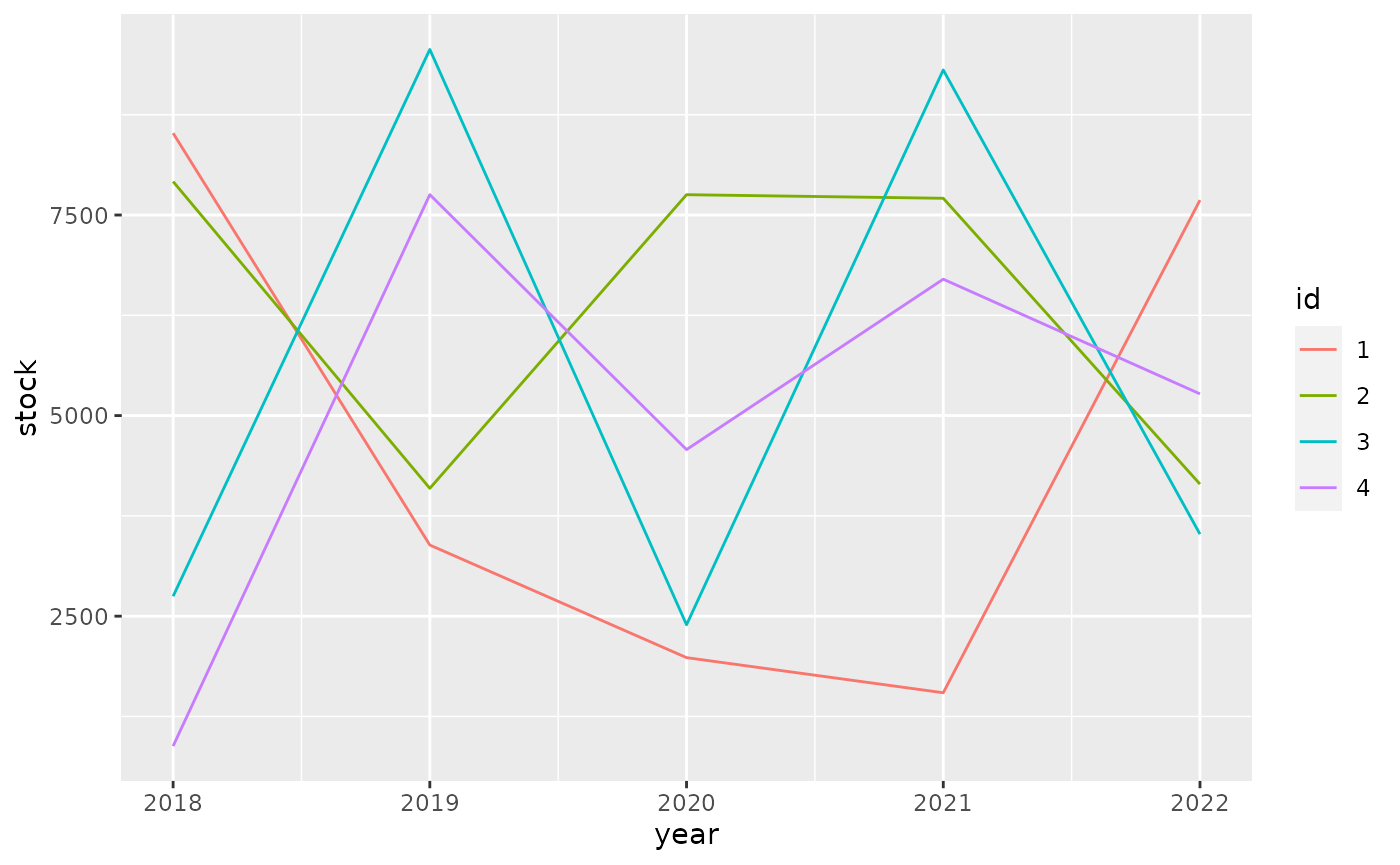
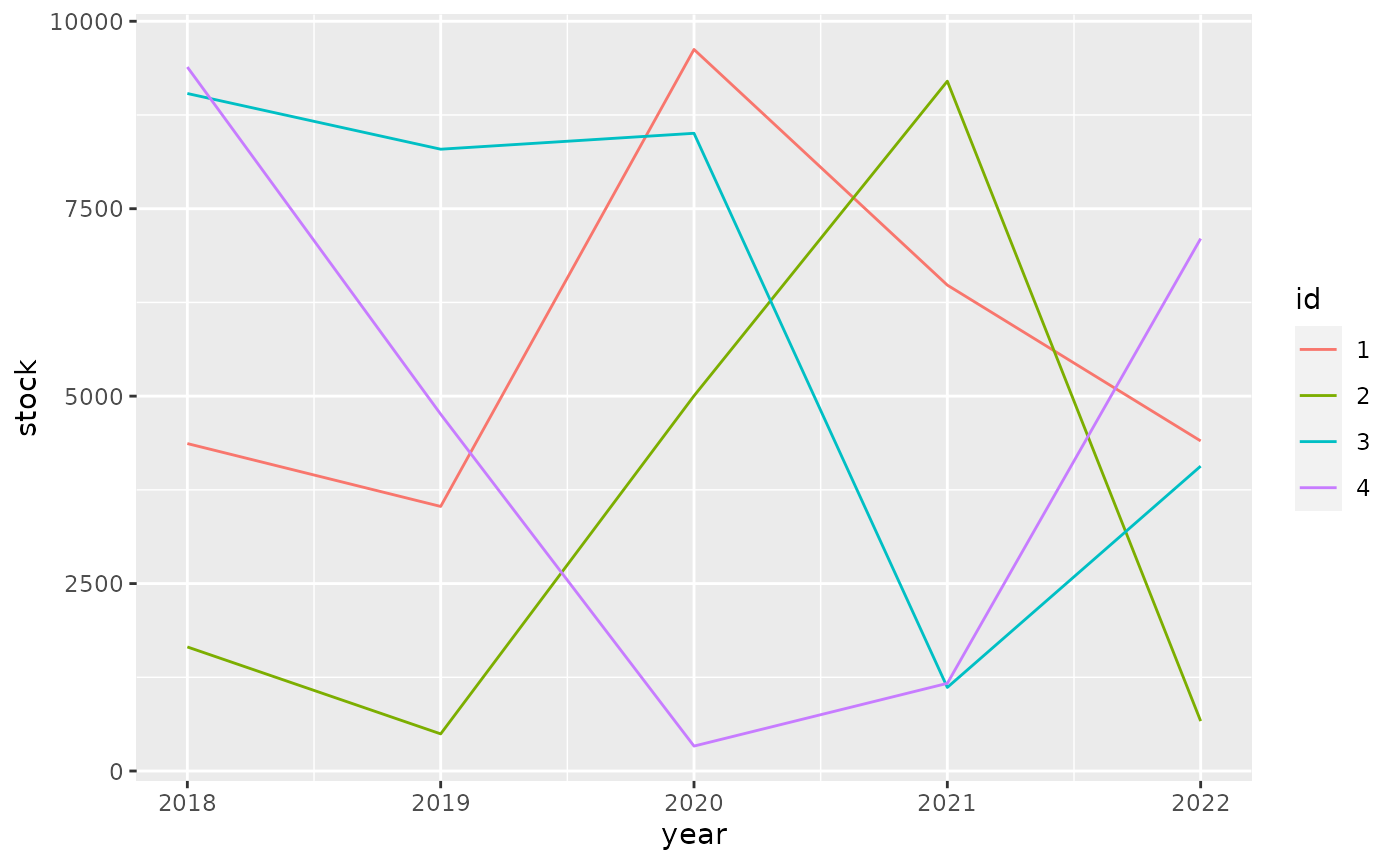
Built site for tibble: 3.1.5.9001@e8896d5

diff --git a/dev/articles/formats.html b/dev/articles/formats.html
@@ -55,7 +55,7 @@
         <a class="navbar-brand" href="../index.html">tibble</a>
         <div class="info hidden-xs hidden-sm">
           <span class="partof">part of the <a href="https://tidyverse.org" class="external-link">tidyverse</a></span>
-          <span class="version version-danger" data-toggle="tooltip" data-placement="bottom" title="In-development version">3.1.5.9000</span>
+          <span class="version version-danger" data-toggle="tooltip" data-placement="bottom" title="In-development version">3.1.5.9001</span>
         </div>
       </div>
     </div>
@@ -227,10 +227,10 @@
 <span class="co">#&gt; <span style="color: #949494;"># A tibble: 4 × 6</span></span>
 <span class="co">#&gt;   id       `2018`    `2019`    `2020`    `2021`    `2022`</span>
 <span class="co">#&gt;   <span style="color: #949494; font-style: italic;">&lt;fct&gt;</span> <span style="color: #949494; font-style: italic;">&lt;dbl:fmt&gt;</span> <span style="color: #949494; font-style: italic;">&lt;dbl:fmt&gt;</span> <span style="color: #949494; font-style: italic;">&lt;dbl:fmt&gt;</span> <span style="color: #949494; font-style: italic;">&lt;dbl:fmt&gt;</span> <span style="color: #949494; font-style: italic;">&lt;dbl:fmt&gt;</span></span>
-<span class="co">#&gt; <span style="color: #BCBCBC;">1</span> 1     $8,520.79 $3,386.54 $1,983.11 $1,545.42 $7,685.79</span>
-<span class="co">#&gt; <span style="color: #BCBCBC;">2</span> 2     $7,917.42 $4,093.36 $7,753.45 $7,708.71 $4,145.92</span>
-<span class="co">#&gt; <span style="color: #BCBCBC;">3</span> 3     $2,748.21 $9,563.84 $2,392.97 $9,308.09 $3,522.13</span>
-<span class="co">#&gt; <span style="color: #BCBCBC;">4</span> 4       $880.76 $7,754.10 $4,576.18 $6,700.16 $5,270.71</span></code></pre></div>
+<span class="co">#&gt; <span style="color: #BCBCBC;">1</span> 1     $4,367.48 $3,528.80 $9,624.18 $6,480.98 $4,402.48</span>
+<span class="co">#&gt; <span style="color: #BCBCBC;">2</span> 2     $1,654.78   $495.26 $5,003.91 $9,200.82   $665.87</span>
+<span class="co">#&gt; <span style="color: #BCBCBC;">3</span> 3     $9,036.65 $8,293.52 $8,505.79 $1,114.83 $4,066.39</span>
+<span class="co">#&gt; <span style="color: #BCBCBC;">4</span> 4     $9,389.58 $4,759.15   $332.51 $1,169.30 $7,101.17</span></code></pre></div>
 <p>For ggplot2 we need to do <a href="https://github.com/tidyverse/ggplot2/pull/4065" class="external-link">some work</a> to show apply the formatting to the scales.</p>
 <div class="sourceCode" id="cb6"><pre class="downlit sourceCode r">
 <code class="sourceCode R"><span class="kw"><a href="https://rdrr.io/r/base/library.html" class="external-link">library</a></span><span class="op">(</span><span class="va"><a href="https://ggplot2.tidyverse.org" class="external-link">ggplot2</a></span><span class="op">)</span>
@@ -241,10 +241,10 @@
   <span class="fu"><a href="https://ggplot2.tidyverse.org/reference/geom_path.html" class="external-link">geom_line</a></span><span class="op">(</span><span class="op">)</span></code></pre></div>
 <p><img src="formats_files/figure-html/unnamed-chunk-7-1.png" width="700"></p>
 <p>It pays off to specify formatting very early in the process. The diagram below shows the principal stages of data analysis and exploration from “R for data science”.</p>
-<div id="htmlwidget-139d820a58140a60ee22" style="width:700px;height:432.632880098888px;" class="DiagrammeR html-widget"></div>
-<script type="application/json" data-for="htmlwidget-139d820a58140a60ee22">{"x":{"diagram":"graph TD\n  Import --> Tidy\n  Tidy --> Transform\n  Transform --> Visualize\n  Visualize --> Communicate\n  Visualize --> Model\n  Model -.-> Transform"},"evals":[],"jsHooks":[]}</script><p>The subsequent diagram adds data formats, communication options, and explicit data formatting. The original r4ds transitions are highlighted in bold. There are two principal options where to apply formatting for results: right before communicating them, or right after importing.</p>
-<div id="htmlwidget-484f2a0c309676ae52cb" style="width:700px;height:432.632880098888px;" class="DiagrammeR html-widget"></div>
-<script type="application/json" data-for="htmlwidget-484f2a0c309676ae52cb">{"x":{"diagram":"graph TD\n  .csv --> Import\n  API --> Import\n  DBI --> Import\n  dbplyr --> Import\n  Import -.-> Format[Format for analysis]\n  Format -.-> Tidy\n\n  subgraph r4ds\n  Import ==> Tidy\n  Tidy ==> Transform\n  Transform ==> Visualize\n  Visualize ==> Model\n  Model -.-> Transform\n  Visualize ==> Communicate\n  end\n\n  Visualize -.-> FormatComm[Format for communication]\n  FormatComm -.-> Communicate\n\n  FormatComm -- Apply formatting early --> Format\n\n  dbplyr -.-> Tidy\n  dbplyr -.-> Transform\n  dbplyr -.-> Visualize\n\n  Communicate --> gt\n  Communicate --> ggplot2\n  Communicate --> DT\n  Communicate --> plotly"},"evals":[],"jsHooks":[]}</script><p>Applying formatting early in the process gives the added benefit of showing the data in a useful format during the “Tidy”, “Transform”, and “Visualize” stages. For this to be useful, we need to ensure that the formatting options applied early:</p>
+<div id="htmlwidget-8d4ebe4e6736b25f4d3b" style="width:700px;height:432.632880098888px;" class="DiagrammeR html-widget"></div>
+<script type="application/json" data-for="htmlwidget-8d4ebe4e6736b25f4d3b">{"x":{"diagram":"graph TD\n  Import --> Tidy\n  Tidy --> Transform\n  Transform --> Visualize\n  Visualize --> Communicate\n  Visualize --> Model\n  Model -.-> Transform"},"evals":[],"jsHooks":[]}</script><p>The subsequent diagram adds data formats, communication options, and explicit data formatting. The original r4ds transitions are highlighted in bold. There are two principal options where to apply formatting for results: right before communicating them, or right after importing.</p>
+<div id="htmlwidget-ed69b5dbc1532711e69e" style="width:700px;height:432.632880098888px;" class="DiagrammeR html-widget"></div>
+<script type="application/json" data-for="htmlwidget-ed69b5dbc1532711e69e">{"x":{"diagram":"graph TD\n  .csv --> Import\n  API --> Import\n  DBI --> Import\n  dbplyr --> Import\n  Import -.-> Format[Format for analysis]\n  Format -.-> Tidy\n\n  subgraph r4ds\n  Import ==> Tidy\n  Tidy ==> Transform\n  Transform ==> Visualize\n  Visualize ==> Model\n  Model -.-> Transform\n  Visualize ==> Communicate\n  end\n\n  Visualize -.-> FormatComm[Format for communication]\n  FormatComm -.-> Communicate\n\n  FormatComm -- Apply formatting early --> Format\n\n  dbplyr -.-> Tidy\n  dbplyr -.-> Transform\n  dbplyr -.-> Visualize\n\n  Communicate --> gt\n  Communicate --> ggplot2\n  Communicate --> DT\n  Communicate --> plotly"},"evals":[],"jsHooks":[]}</script><p>Applying formatting early in the process gives the added benefit of showing the data in a useful format during the “Tidy”, “Transform”, and “Visualize” stages. For this to be useful, we need to ensure that the formatting options applied early:</p>
 <ul>
 <li>give a good user experience for analysis
 <ul>

diff --git a/dev/news/index.html b/dev/news/index.html
@@ -26,7 +26,7 @@
         <a class="navbar-brand" href="../index.html">tibble</a>
         <div class="info hidden-xs hidden-sm">
           <span class="partof">part of the <a href="https://tidyverse.org" class="external-link">tidyverse</a></span>
-          <span class="version version-danger" data-toggle="tooltip" data-placement="bottom" title="In-development version">3.1.5.9000</span>
+          <span class="version version-danger" data-toggle="tooltip" data-placement="bottom" title="In-development version">3.1.5.9001</span>
         </div>
       </div>
     </div>
@@ -109,6 +109,15 @@
       <small>Source: <a href="https://github.com/tidyverse/tibble/blob/master/NEWS.md" class="external-link"><code>NEWS.md</code></a></small>
     </div>
 
+    <div class="section level2">
+<h2 class="page-header" data-toc-text="3.1.5.9001" id="tibble-3159001">tibble 3.1.5.9001<a class="anchor" aria-label="anchor" href="#tibble-3159001"></a></h2>
+<ul><li>
+<code><a href="../reference/view.html">view()</a></code> uses <code>rlang::lxpr_deparse(width = Inf)</code> to avoid errors with long <code>|&gt;</code> pipes (<a href="https://github.com/tidyverse/tibble/issues/957" class="external-link">#957</a>).</li>
+<li>
+<code><a href="../reference/num.html">set_num_opts()</a></code> and <code><a href="../reference/char.html">set_char_opts()</a></code> are reexported from pillar (<a href="https://github.com/tidyverse/tibble/issues/959" class="external-link">#959</a>).</li>
+<li>
+<code><a href="../reference/new_tibble.html">new_tibble()</a></code> checks that the <code>nrow</code> argument is nonnegative and less than 2^31 (<a href="https://github.com/tidyverse/tibble/issues/916" class="external-link">#916</a>).</li>
+</ul></div>
     <div class="section level2">
 <h2 class="page-header" data-toc-text="3.1.5.9000" id="tibble-3159000">tibble 3.1.5.9000<a class="anchor" aria-label="anchor" href="#tibble-3159000"></a></h2>
 <ul><li>Same as previous version.</li>

diff --git a/dev/articles/types.html b/dev/articles/types.html
@@ -55,7 +55,7 @@
         <a class="navbar-brand" href="../index.html">tibble</a>
         <div class="info hidden-xs hidden-sm">
           <span class="partof">part of the <a href="https://tidyverse.org" class="external-link">tidyverse</a></span>
-          <span class="version version-danger" data-toggle="tooltip" data-placement="bottom" title="In-development version">3.1.5.9000</span>
+          <span class="version version-danger" data-toggle="tooltip" data-placement="bottom" title="In-development version">3.1.5.9001</span>
         </div>
       </div>
     </div>
@@ -358,7 +358,7 @@
 #&gt; $ factor         [3m [38;5;246m&lt;fct&gt; [39m [23m A
 #&gt; $ ordered        [3m [38;5;246m&lt;ord&gt; [39m [23m a
 #&gt; $ Date           [3m [38;5;246m&lt;date&gt; [39m [23m 2021-10-25
-#&gt; $ POSIXt         [3m [38;5;246m&lt;dttm&gt; [39m [23m 2021-10-25 02:41:57
+#&gt; $ POSIXt         [3m [38;5;246m&lt;dttm&gt; [39m [23m 2021-10-25 03:01:42
 #&gt; $ difftime       [3m [38;5;246m&lt;drtn&gt; [39m [23m 1 secs
 #&gt; $ hms            [3m [38;5;246m&lt;time&gt; [39m [23m 00:00:01
 #&gt; $ integer64      [3m [38;5;246m&lt;int64&gt; [39m [23m 10000000000
@@ -394,7 +394,7 @@
 <span class="co">#&gt;             "sym"</span>
 <span class="co">#&gt;         }, typeof(x))</span>
 <span class="co">#&gt; }</span>
-<span class="co">#&gt; &lt;bytecode: 0x559a1574a280&gt;</span>
+<span class="co">#&gt; &lt;bytecode: 0x560882c155e8&gt;</span>
 <span class="co">#&gt; &lt;environment: namespace:pillar&gt;</span></code></pre></div>
 </div>
   </div>

diff --git a/dev/reference/add_column.html b/dev/reference/add_column.html
@@ -27,7 +27,7 @@ frame."><meta property="og:image" content="https://tibble.tidyverse.org/logo.svg
         <a class="navbar-brand" href="../index.html">tibble</a>
         <div class="info hidden-xs hidden-sm">
           <span class="partof">part of the <a href="https://tidyverse.org" class="external-link">tidyverse</a></span>
-          <span class="version version-danger" data-toggle="tooltip" data-placement="bottom" title="In-development version">3.1.5.9000</span>
+          <span class="version version-danger" data-toggle="tooltip" data-placement="bottom" title="In-development version">3.1.5.9001</span>
         </div>
       </div>
     </div>

diff --git a/dev/reference/add_row.html b/dev/reference/add_row.html
@@ -30,7 +30,7 @@ add_case() is an alias of add_row()."><meta property="og:image" content="https:/
         <a class="navbar-brand" href="../index.html">tibble</a>
         <div class="info hidden-xs hidden-sm">
           <span class="partof">part of the <a href="https://tidyverse.org" class="external-link">tidyverse</a></span>
-          <span class="version version-danger" data-toggle="tooltip" data-placement="bottom" title="In-development version">3.1.5.9000</span>
+          <span class="version version-danger" data-toggle="tooltip" data-placement="bottom" title="In-development version">3.1.5.9001</span>
         </div>
       </div>
     </div>

diff --git a/dev/reference/as_tibble.html b/dev/reference/as_tibble.html
@@ -41,7 +41,7 @@ as_tibble_col() converts a vector to a tibble with one column."><meta property="
         <a class="navbar-brand" href="../index.html">tibble</a>
         <div class="info hidden-xs hidden-sm">
           <span class="partof">part of the <a href="https://tidyverse.org" class="external-link">tidyverse</a></span>
-          <span class="version version-danger" data-toggle="tooltip" data-placement="bottom" title="In-development version">3.1.5.9000</span>
+          <span class="version version-danger" data-toggle="tooltip" data-placement="bottom" title="In-development version">3.1.5.9001</span>
         </div>
       </div>
     </div>

diff --git a/dev/reference/char.html b/dev/reference/char.html
@@ -32,7 +32,7 @@ useful for composing with other types."><meta property="og:image" content="https
         <a class="navbar-brand" href="../index.html">tibble</a>
         <div class="info hidden-xs hidden-sm">
           <span class="partof">part of the <a href="https://tidyverse.org" class="external-link">tidyverse</a></span>
-          <span class="version version-danger" data-toggle="tooltip" data-placement="bottom" title="In-development version">3.1.5.9000</span>
+          <span class="version version-danger" data-toggle="tooltip" data-placement="bottom" title="In-development version">3.1.5.9001</span>
         </div>
       </div>
     </div>

diff --git a/dev/reference/deprecated.html b/dev/reference/deprecated.html
@@ -31,7 +31,7 @@ Use tribble() instead of frame_data()."><meta property="og:image" content="https
         <a class="navbar-brand" href="../index.html">tibble</a>
         <div class="info hidden-xs hidden-sm">
           <span class="partof">part of the <a href="https://tidyverse.org" class="external-link">tidyverse</a></span>
-          <span class="version version-danger" data-toggle="tooltip" data-placement="bottom" title="In-development version">3.1.5.9000</span>
+          <span class="version version-danger" data-toggle="tooltip" data-placement="bottom" title="In-development version">3.1.5.9001</span>
         </div>
       </div>
     </div>

diff --git a/dev/reference/enframe.html b/dev/reference/enframe.html
@@ -32,7 +32,7 @@ If the input has only one column, an unnamed vector is returned."><meta property
         <a class="navbar-brand" href="../index.html">tibble</a>
         <div class="info hidden-xs hidden-sm">
           <span class="partof">part of the <a href="https://tidyverse.org" class="external-link">tidyverse</a></span>
-          <span class="version version-danger" data-toggle="tooltip" data-placement="bottom" title="In-development version">3.1.5.9000</span>
+          <span class="version version-danger" data-toggle="tooltip" data-placement="bottom" title="In-development version">3.1.5.9001</span>
         </div>
       </div>
     </div>

diff --git a/dev/reference/formatting.html b/dev/reference/formatting.html
@@ -45,7 +45,7 @@ and pillar::pillar_options for options that control the display in the console.'
         <a class="navbar-brand" href="../index.html">tibble</a>
         <div class="info hidden-xs hidden-sm">
           <span class="partof">part of the <a href="https://tidyverse.org" class="external-link">tidyverse</a></span>
-          <span class="version version-danger" data-toggle="tooltip" data-placement="bottom" title="In-development version">3.1.5.9000</span>
+          <span class="version version-danger" data-toggle="tooltip" data-placement="bottom" title="In-development version">3.1.5.9001</span>
         </div>
       </div>
     </div>

diff --git a/dev/reference/frame_matrix.html b/dev/reference/frame_matrix.html
@@ -29,7 +29,7 @@ is important. The syntax is inspired by tribble()."><meta property="og:image" co
         <a class="navbar-brand" href="../index.html">tibble</a>
         <div class="info hidden-xs hidden-sm">
           <span class="partof">part of the <a href="https://tidyverse.org" class="external-link">tidyverse</a></span>
-          <span class="version version-danger" data-toggle="tooltip" data-placement="bottom" title="In-development version">3.1.5.9000</span>
+          <span class="version version-danger" data-toggle="tooltip" data-placement="bottom" title="In-development version">3.1.5.9001</span>
         </div>
       </div>
     </div>

diff --git a/dev/reference/is.tibble.html b/dev/reference/is.tibble.html
@@ -27,7 +27,7 @@ Please use is_tibble() instead."><meta property="og:image" content="https://tibb
         <a class="navbar-brand" href="../index.html">tibble</a>
         <div class="info hidden-xs hidden-sm">
           <span class="partof">part of the <a href="https://tidyverse.org" class="external-link">tidyverse</a></span>
-          <span class="version version-danger" data-toggle="tooltip" data-placement="bottom" title="In-development version">3.1.5.9000</span>
+          <span class="version version-danger" data-toggle="tooltip" data-placement="bottom" title="In-development version">3.1.5.9001</span>
         </div>
       </div>
     </div>
